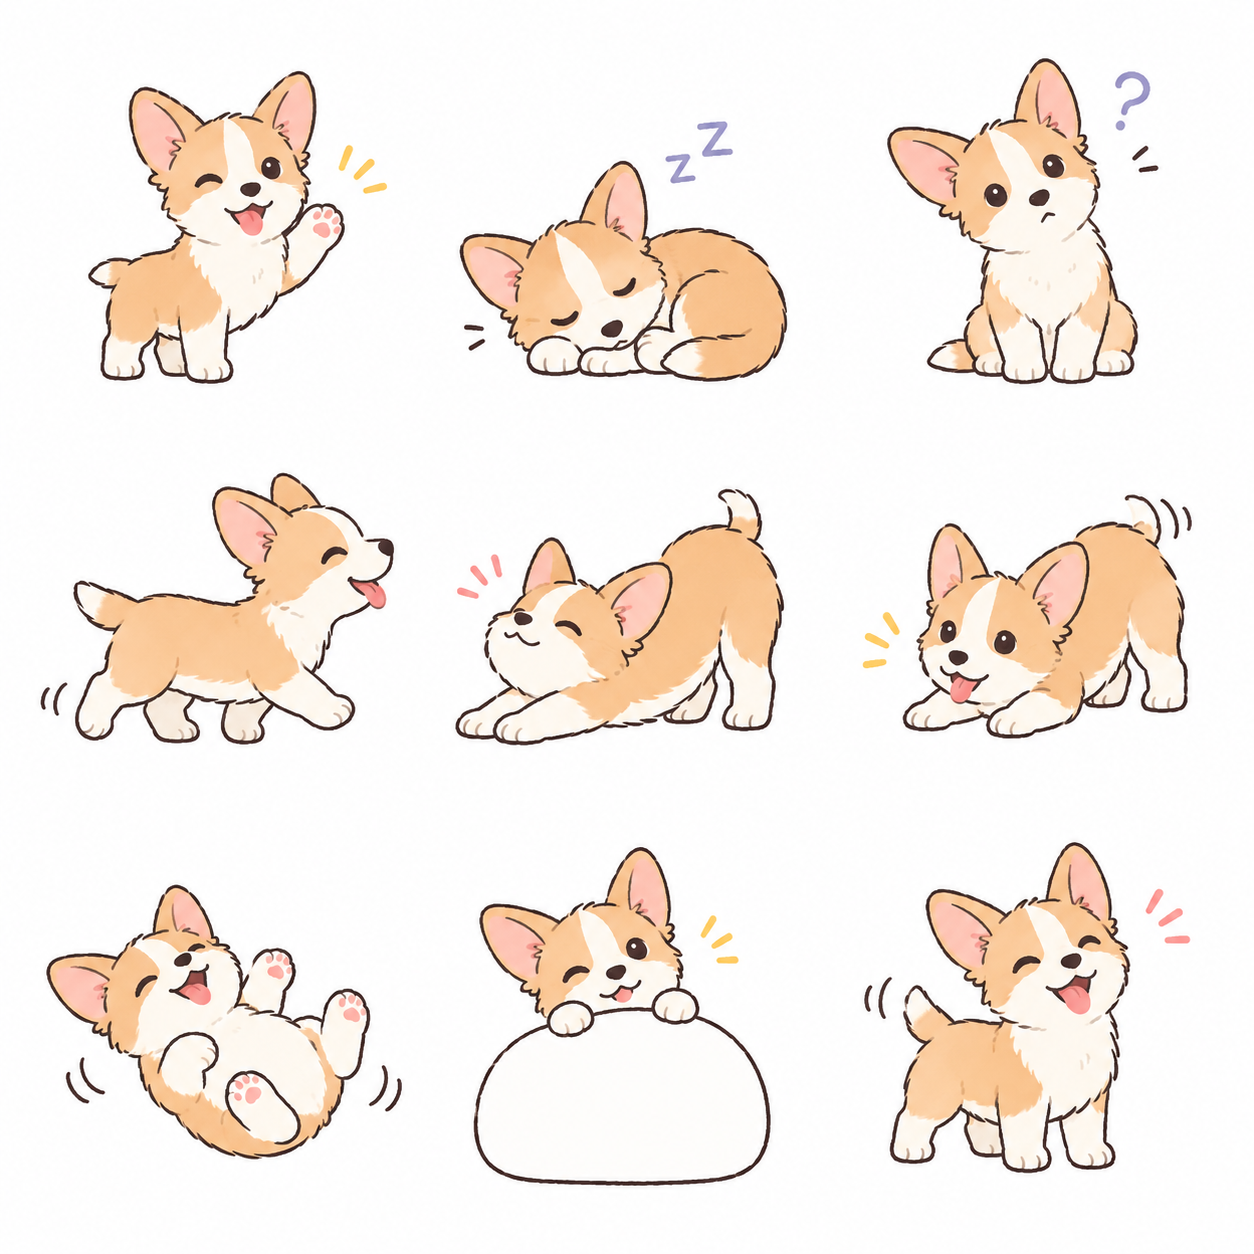
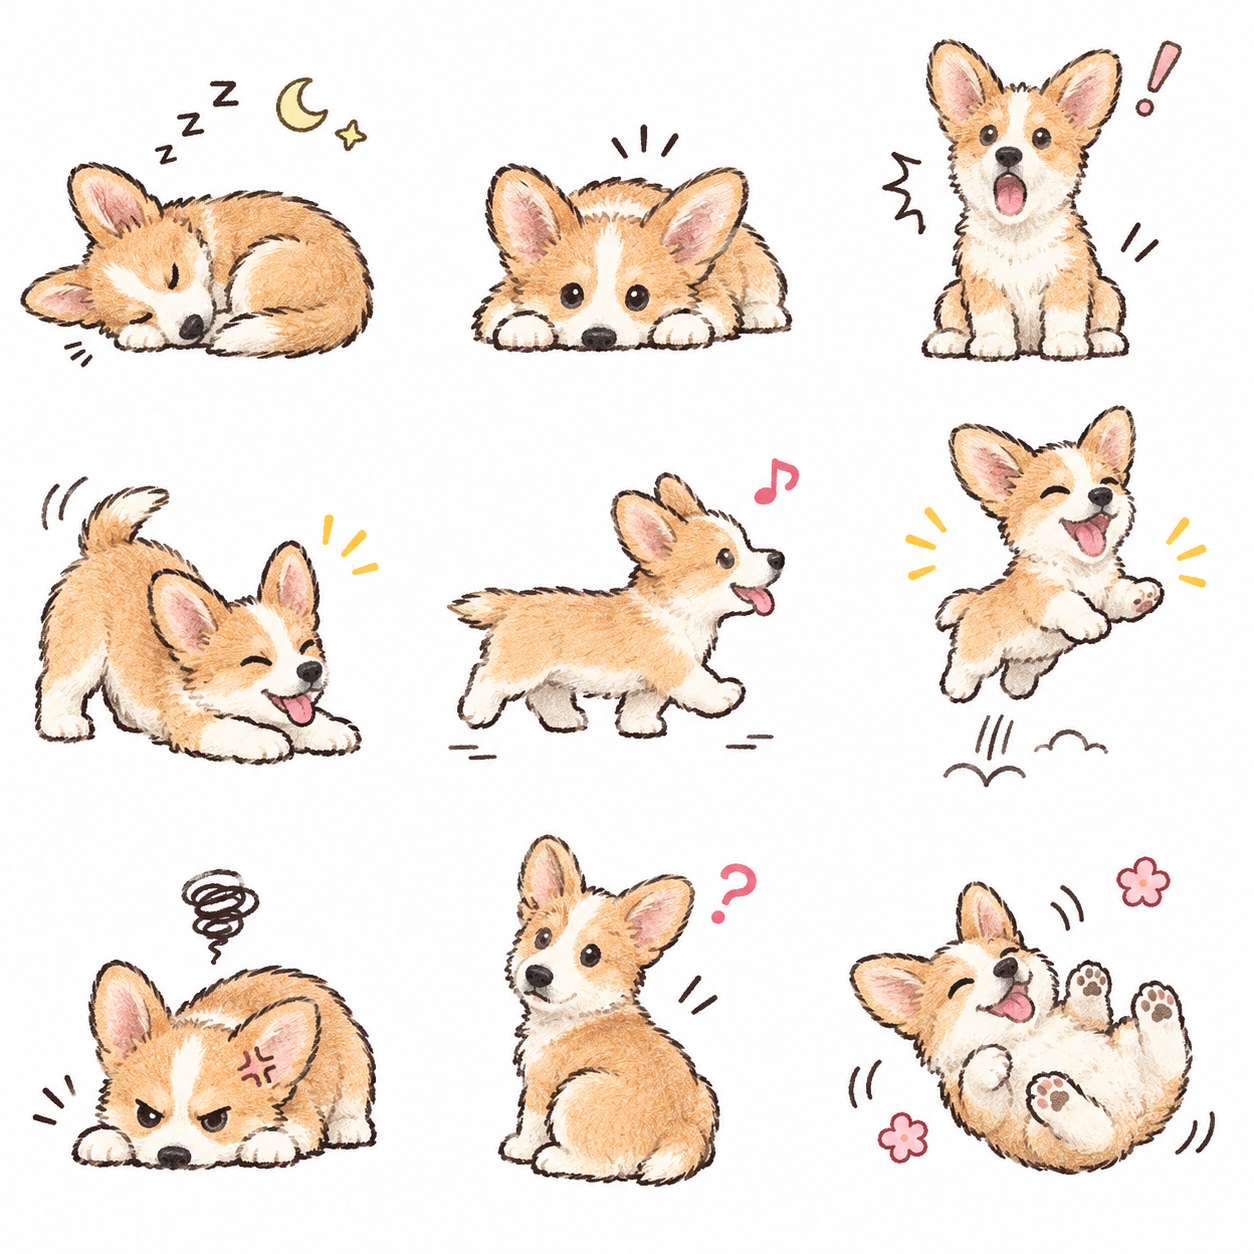
docs: update images in README and add new hand-drawn style

diff --git a/README.md b/README.md
@@ -10,7 +10,7 @@
   <tr>
     <td align="center"><b>真实宠物照片</b><br /><img src="docs/assets/promo/dog-real-photo.png" width="260" alt="真实小狗照片" /></td>
     <td align="center"><strong>→</strong></td>
-    <td align="center"><b>生成的表情包</b><br /><img src="docs/assets/promo/dog-handdrawn-9-grid.png" width="420" alt="手绘风小狗九宫格" /></td>
+    <td align="center"><b>生成的表情包</b><br /><img src="docs/assets/promo/dog-handdrawn-featured.png" width="420" alt="彩铅蜡笔手绘风小狗表情包" /></td>
   </tr>
 </table>
 
@@ -45,7 +45,7 @@
   <tr>
     <td rowspan="3"><img src="docs/assets/promo/dog-real-photo.png" width="220" alt="真实小狗照片" /></td>
     <td align="center"><b>Hand-drawn</b><br />蜡笔 / 彩铅手绘</td>
-    <td><img src="docs/assets/promo/dog-handdrawn-9-grid.png" width="360" alt="手绘蜡笔风小狗九宫格" /></td>
+    <td><img src="docs/assets/promo/dog-handdrawn-featured.png" width="360" alt="彩铅蜡笔手绘风小狗九宫格" /></td>
   </tr>
   <tr>
     <td align="center"><b>Flat cartoon</b><br />简洁扁平卡通</td>
